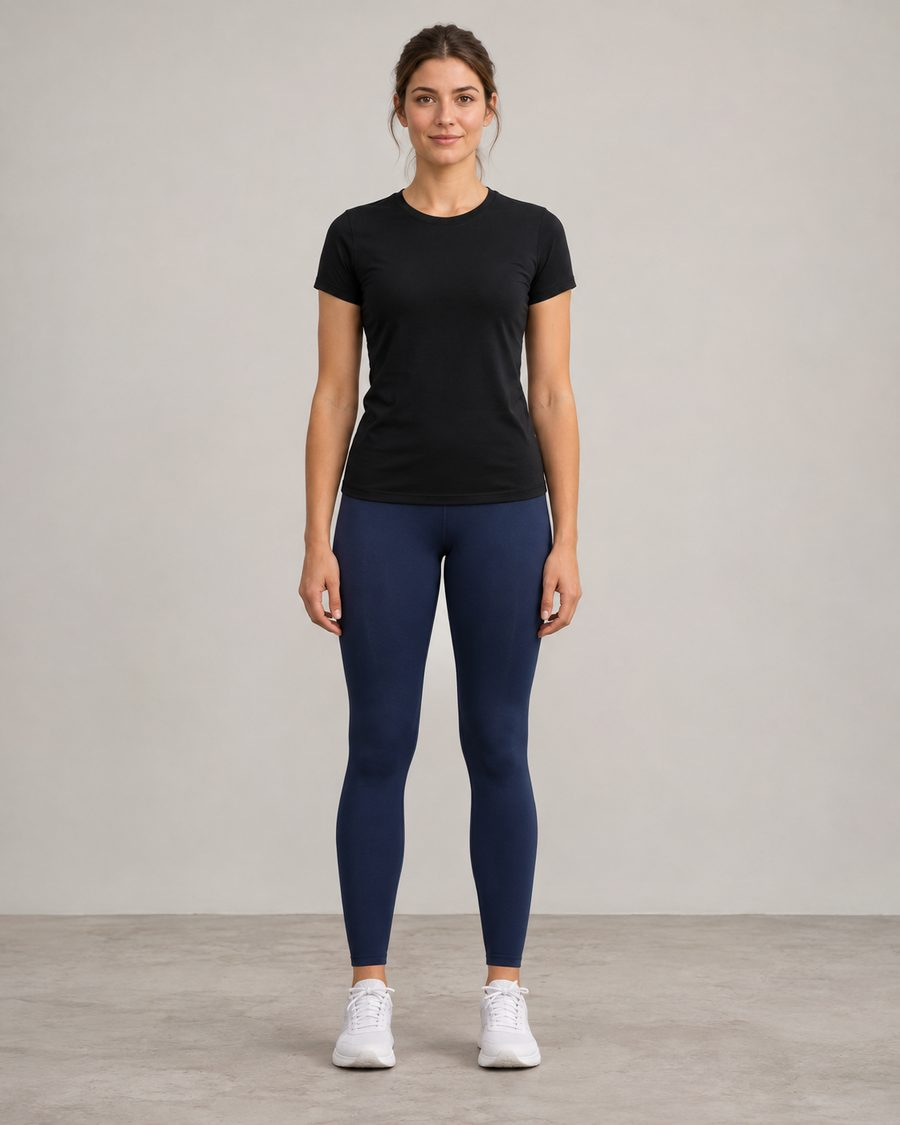
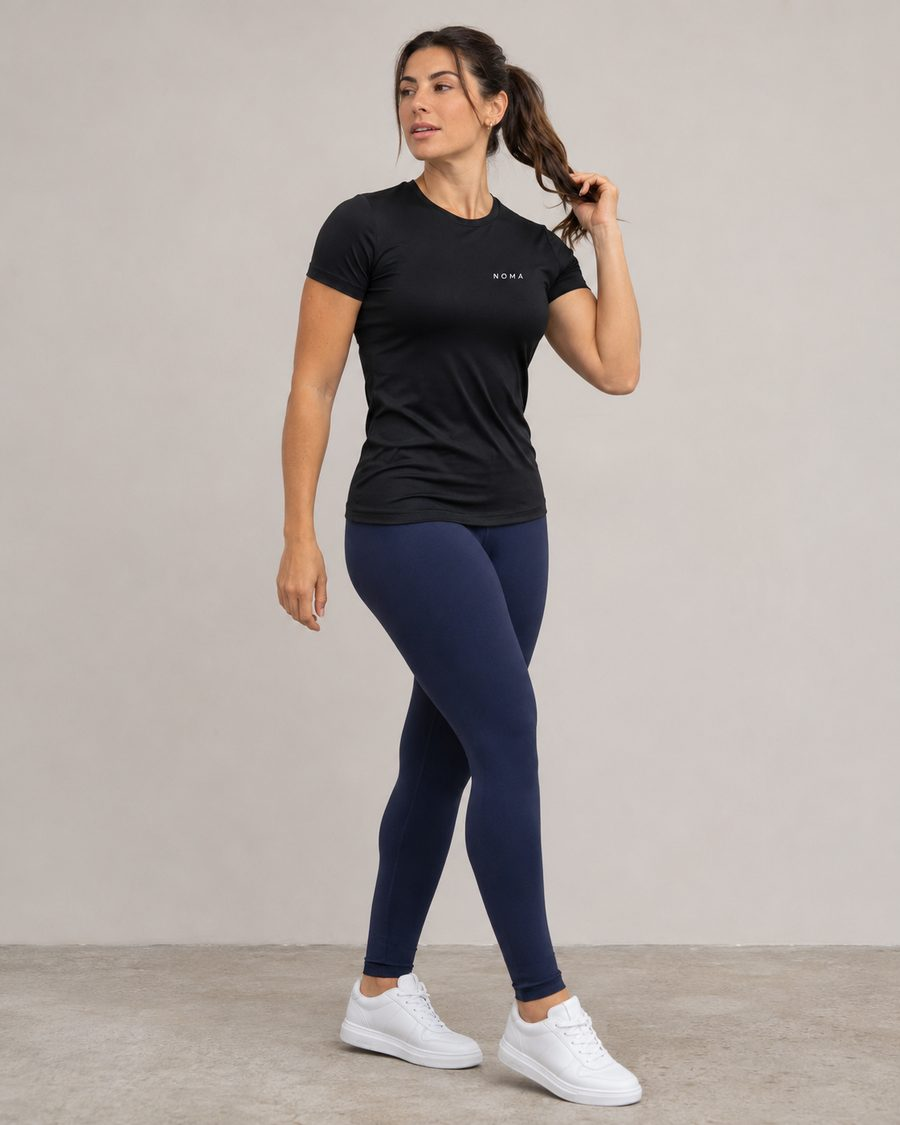
Ajustes de layout, fotos novas e correções de bugs
- Banner de borda a borda e conteúdo mais perto da borda, como no Figma
- Banners próprios para celular (verticais) e contraste do texto
- Menu do celular reescrito fora do topo (antes ficava preso no cabeçalho)
- Fotos refeitas com poses variadas, segunda foto por produto e a marca
  NOMA nas peças
- Galeria e filtros sem estouro lateral no celular; telas do painel
  ajustadas para telas pequenas
- API do carrinho tolera entradas inválidas (antes dava erro 500)
- Busca escapa o termo destacado; gaveta fora do alcance do Tab quando fechada

diff --git a/static/css/noma.css b/static/css/noma.css
@@ -19,7 +19,9 @@
   --raio-g: 14px;
   --sombra: 0 1px 2px rgb(0 0 0 / .04), 0 8px 24px rgb(0 0 0 / .06);
   --sombra-g: 0 24px 60px rgb(0 0 0 / .18);
-  --largura: 1120px;
+  /* Largura do conteúdo como no Figma: perto da borda, com respiro proporcional à tela */
+  --respiro: clamp(16px, 7vw, 150px);
+  --largura: min(1720px, calc(100vw - 2 * var(--respiro)));
   --fonte: "Manrope", system-ui, -apple-system, "Segoe UI", sans-serif;
   --mola: cubic-bezier(.34, 1.56, .64, 1);
   --suavizar: cubic-bezier(.22, 1, .36, 1);
@@ -60,7 +62,7 @@ p { margin: 0; }
 .topo { position: sticky; top: 0; z-index: 40; background: rgb(244 244 246 / .86); backdrop-filter: saturate(180%) blur(14px);
   transition: box-shadow .3s, background .3s; }
 .topo.rolou { box-shadow: 0 1px 0 var(--linha), 0 6px 20px rgb(0 0 0 / .04); background: rgb(255 255 255 / .9); }
-.topo__in { max-width: 1440px; margin: 0 auto; height: var(--topo-h); padding: 0 48px; display: flex; align-items: center; gap: 24px; }
+.topo__in { height: var(--topo-h); padding: 0 clamp(16px, 3vw, 48px); display: flex; align-items: center; gap: 24px; }
 .logo { font-weight: 500; letter-spacing: .32em; font-size: 17px; margin-right: auto; }
 .nav { display: flex; gap: 28px; font-size: 14px; color: #2a2a2e; margin-right: auto; }
 .nav a { position: relative; padding: 6px 0; transition: color .2s; }
@@ -117,13 +119,13 @@ p { margin: 0; }
 .link--suave { color: var(--suave); font-size: 13px; }
 
 /* ------------------------------------------------ hero */
-.hero { position: relative; height: clamp(360px, 46vw, 640px); max-width: 1440px; margin: 0 auto; overflow: hidden; background: #1d3a52; }
+.hero { position: relative; width: 100%; height: clamp(380px, 44vw, 820px); overflow: hidden; background: #1d3a52; }
 .hero__slide { position: absolute; inset: 0; background: var(--fundo); opacity: 0; visibility: hidden; transition: opacity 1s ease, visibility 1s; }
 .hero__slide.ativo { opacity: 1; visibility: visible; }
 .hero__slide img { width: 100%; height: 100%; object-fit: cover; object-position: 75% center; transform: scale(1.08); }
 .hero__slide.ativo img { animation: kenburns 9s ease-out forwards; }
 @keyframes kenburns { from { transform: scale(1.08); } to { transform: scale(1); } }
-.hero__texto { position: absolute; left: max(48px, calc((100% - var(--largura)) / 2 - 60px)); top: 50%; transform: translateY(-50%); color: #fff; max-width: 560px; }
+.hero__texto { position: absolute; left: calc((100% - var(--largura)) / 2); top: 50%; transform: translateY(-50%); color: #fff; max-width: min(760px, 52%); }
 .hero__texto > * { opacity: 0; transform: translateY(24px); }
 .hero__slide.ativo .hero__texto > * { animation: subir .9s var(--suavizar) forwards; }
 .hero__slide.ativo .hero__texto > :nth-child(2) { animation-delay: .12s; }
@@ -141,13 +143,13 @@ p { margin: 0; }
 @keyframes progresso { from { transform: scaleX(0); } to { transform: scaleX(1); } }
 
 /* ------------------------------------------------ seções e grade */
-.secao { max-width: var(--largura); margin: 0 auto; padding: 64px 24px 8px; }
+.secao { width: var(--largura); margin: 0 auto; padding: 64px 0 8px; }
 .secao__titulo { font-size: clamp(24px, 2.6vw, 34px); font-weight: 800; text-transform: uppercase; letter-spacing: -.015em; text-align: center; margin-bottom: 28px; }
 .secao__titulo--esq { text-align: left; margin-top: 48px; font-size: 22px; }
 .secao__cabeca { display: flex; justify-content: center; align-items: baseline; position: relative; }
 .secao__cabeca .link { position: absolute; right: 0; top: 10px; }
 .secao__acao { display: flex; justify-content: center; margin-top: 36px; }
-.grade { display: grid; grid-template-columns: repeat(4, 1fr); gap: 40px 16px; }
+.grade { display: grid; grid-template-columns: repeat(4, 1fr); gap: 44px clamp(12px, 1.2vw, 24px); }
 .grade--3 { grid-template-columns: repeat(3, 1fr); gap: 16px; }
 .grade--3 .card__foto { aspect-ratio: 1.22; }
 .grade--queridinhos { grid-template-columns: 1.15fr 1fr 1fr 1fr; align-items: start; }
@@ -215,7 +217,8 @@ p { margin: 0; }
 .sem-js .revelar { opacity: 1; transform: none; }
 
 /* ------------------------------------------------ listagem */
-.pagina { max-width: var(--largura); margin: 0 auto; padding: 36px 24px 72px; }
+.pagina { width: var(--largura); margin: 0 auto; padding: 36px 0 72px; }
+.estreita { width: min(760px, var(--largura)); }
 .lista-cabeca { display: flex; justify-content: space-between; align-items: flex-start; gap: 24px; margin-bottom: 36px; }
 .lista-cabeca__titulo { font-size: clamp(36px, 4vw, 52px); font-weight: 700; letter-spacing: -.03em; }
 .lista-cabeca .suave { margin-top: 6px; }
@@ -271,7 +274,6 @@ p { margin: 0; }
 .trilha .i { width: 13px; height: 13px; }
 .trilha a:hover { color: var(--texto); }
 .trilha span { color: var(--texto); }
-.produto { max-width: 1240px; }
 .produto__topo { display: grid; grid-template-columns: minmax(0, 1.78fr) minmax(320px, 1fr); gap: 20px; align-items: start; }
 .galeria { display: grid; grid-template-columns: 1fr 1fr; gap: 8px; }
 .galeria--1 { grid-template-columns: 1fr; }
@@ -368,7 +370,7 @@ p { margin: 0; }
 .estrelas .i.meia { fill: url(#meia); fill: currentColor; fill-opacity: .45; }
 
 /* avaliações */
-.avaliacoes { max-width: var(--largura); margin: 72px auto 0; }
+.avaliacoes { margin: 72px auto 0; }
 .avaliacoes__titulo { font-size: 24px; font-weight: 600; letter-spacing: -.02em; margin-bottom: 16px; }
 .avaliacoes__caixa { background: var(--superficie); border-radius: var(--raio-g); padding: 28px; display: grid; grid-template-columns: 260px 1fr; gap: 40px; box-shadow: var(--sombra); }
 .avaliacoes__nota { display: flex; align-items: center; gap: 16px; }
@@ -549,7 +551,7 @@ p { margin: 0; }
 
 /* ------------------------------------------------ institucional */
 .institucional { padding-top: 48px; }
-.estreita { max-width: 760px; }
+
 .sobre { display: grid; grid-template-columns: 1.1fr 1fr; gap: 48px; align-items: center; }
 .sobre h1 { font-size: clamp(34px, 4vw, 52px); font-weight: 700; letter-spacing: -.03em; margin-bottom: 20px; }
 .sobre h1 span { color: var(--suave); font-weight: 500; }
@@ -575,7 +577,7 @@ p { margin: 0; }
 
 /* ------------------------------------------------ rodapé */
 .rodape { background: #000; color: #e9e9ea; margin-top: 40px; }
-.rodape__in { max-width: 1440px; margin: 0 auto; padding: 72px 64px 40px; display: grid; grid-template-columns: 220px 1fr; gap: 28px 40px; }
+.rodape__in { padding: 72px clamp(16px, 4.5vw, 64px) 40px; display: grid; grid-template-columns: 220px 1fr; gap: 28px 40px; }
 .rodape__logo { font-size: 44px; letter-spacing: .14em; font-weight: 500; align-self: center; }
 .rodape__colunas { display: grid; grid-template-columns: repeat(4, 1fr); gap: 24px; }
 .rodape h4 { font-size: 11px; letter-spacing: .1em; text-transform: uppercase; color: #fff; margin-bottom: 12px; font-weight: 700; }
@@ -603,15 +605,10 @@ p { margin: 0; }
   .topo__in { padding: 0 16px; gap: 8px; }
   .topo .topo__menu { display: inline-grid; }
   .logo { margin: 0 auto 0 4px; }
-  .nav { position: fixed; inset: 0 30% 0 0; min-width: 260px; background: var(--superficie); z-index: 65; flex-direction: column; gap: 0; padding: 70px 24px 24px;
-    font-size: 20px; font-weight: 600; transform: translateX(-105%); transition: transform .45s var(--suavizar); box-shadow: var(--sombra-g); margin: 0; }
-  .nav.aberto { transform: none; }
-  .nav a { padding: 14px 0; border-bottom: 1px solid var(--linha); }
-  .nav a::after { display: none; }
-  .topo .nav__fechar { display: inline-grid; position: absolute; top: 14px; right: 14px; }
+  .topo .nav { display: none; }
   .carrinho-btn__txt { display: none; }
   .produto__topo { grid-template-columns: 1fr; }
-  .galeria { display: flex; overflow-x: auto; scroll-snap-type: x mandatory; gap: 8px; margin: 0 -24px; padding: 0 24px; scrollbar-width: none; }
+  .galeria { display: flex; overflow-x: auto; scroll-snap-type: x mandatory; gap: 8px; margin: 0 calc(-1 * var(--respiro)); padding: 0 var(--respiro); scroll-padding: 0 var(--respiro); scrollbar-width: none; }
   .galeria::-webkit-scrollbar { display: none; }
   .galeria .galeria__foto { flex: 0 0 82%; aspect-ratio: 4 / 5 !important; scroll-snap-align: center; grid-column: auto !important; }
   .galeria--1 .galeria__foto { flex-basis: 100%; }
@@ -628,24 +625,26 @@ p { margin: 0; }
 @media (max-width: 640px) {
   body { font-size: 14px; }
   .faixa { font-size: 10.5px; gap: 8px; }
-  .secao { padding: 44px 16px 0; }
-  .pagina { padding: 24px 16px 56px; }
+  .secao { padding: 44px 0 0; }
+  .pagina { padding: 24px 0 56px; }
   .grade, .grade--queridinhos { grid-template-columns: 1fr 1fr; gap: 28px 10px; }
   .grade--3 { grid-template-columns: 1fr 1fr; }
   .grade--3 .card:first-child { grid-column: 1 / -1; }
   .manifesto { grid-column: 1 / -1; }
   .trilho__faixa { grid-auto-columns: 44%; }
   .trilho__seta { display: none; }
-  .hero { height: 66vh; max-height: 520px; }
-  .hero__slide img { object-position: 72% center; }
-  .hero__slide::after { content: ""; position: absolute; inset: 40% 0 0; background: linear-gradient(transparent, rgb(0 0 0 / .55)); pointer-events: none; }
-  .hero__texto { z-index: 1; }
-  .hero__texto { left: 20px; right: 20px; top: auto; bottom: 64px; transform: none; text-shadow: 0 2px 20px rgb(0 0 0 / .35); }
+  /* No celular o banner usa uma foto vertical própria, com espaço limpo embaixo para o texto */
+  .hero { height: auto; aspect-ratio: 4 / 5; max-height: 86vh; }
+  .hero__slide img { object-position: center top; }
+  .hero__slide::after { content: ""; position: absolute; inset: 40% 0 0; background: linear-gradient(transparent, rgb(0 0 0 / .42)); pointer-events: none; }
+  .hero__texto { z-index: 1; left: 20px; right: 20px; top: auto; bottom: 44px; transform: none; text-shadow: 0 1px 14px rgb(0 0 0 / .25); }
+  .hero__pontos { right: 20px; bottom: 18px; }
   .hero__chapeu { margin-bottom: 12px; }
   .filtros { align-items: stretch; }
-  .filtros__grupo { flex-wrap: nowrap; overflow-x: auto; padding-bottom: 4px; margin: 0 -16px; padding-inline: 16px; scrollbar-width: none; width: calc(100% + 32px); }
+  .filtros { position: relative; }
+  .filtros__grupo { flex-wrap: nowrap; overflow-x: auto; padding-bottom: 4px; margin: 0 calc(-1 * var(--respiro)); padding-inline: var(--respiro); scrollbar-width: none; width: calc(100% + 2 * var(--respiro)); }
   .filtro { position: static; }
-  .filtro__menu { left: 16px; right: 16px; top: auto; }
+  .filtro__menu { left: 0; right: 0; top: 42px; max-height: 60vh; overflow-y: auto; }
   .ordenar { width: 100%; justify-content: space-between; }
   .modal { padding: 0; align-items: end; }
   .modal__caixa { border-radius: 18px 18px 0 0; padding: 24px 18px; transform: translateY(100%); max-height: 94vh; overflow-y: auto; }
@@ -658,3 +657,17 @@ p { margin: 0; }
   *, *::before, *::after { animation-duration: .01ms !important; animation-iteration-count: 1 !important; transition-duration: .01ms !important; scroll-behavior: auto !important; }
   .revelar { opacity: 1; transform: none; }
 }
+
+/* ------------------------------------------------ menu do celular (fora do topo para não ficar preso nele) */
+.menu-movel { position: fixed; top: 0; bottom: 0; left: 0; width: min(320px, 84vw); background: var(--superficie); z-index: 66;
+  display: flex; flex-direction: column; padding: 18px 22px 24px; transform: translateX(-105%); visibility: hidden;
+  transition: transform .45s var(--suavizar), visibility .45s; box-shadow: var(--sombra-g); overflow-y: auto; }
+.menu-movel.aberto { transform: none; visibility: visible; }
+.menu-movel__topo { display: flex; justify-content: space-between; align-items: center; margin-bottom: 18px; }
+.menu-movel__topo .logo { margin: 0; }
+.menu-movel a.menu-movel__link { display: flex; justify-content: space-between; align-items: center; padding: 15px 0; border-bottom: 1px solid var(--linha); font-size: 19px; font-weight: 600;
+  opacity: 0; transform: translateX(-14px); transition: opacity .35s, transform .4s var(--suavizar); }
+.menu-movel.aberto a.menu-movel__link { opacity: 1; transform: none; transition-delay: calc(var(--i) * 45ms + 120ms); }
+.menu-movel a.menu-movel__link .i { color: var(--apagado); }
+.menu-movel a.ativo { color: var(--azul); }
+.menu-movel__pe { margin-top: auto; padding-top: 24px; display: grid; gap: 10px; }

diff --git a/static/js/noma.js b/static/js/noma.js
@@ -80,7 +80,12 @@
 
   /* ------------------------------------------------ menu do celular */
   const nav = $("[data-menu]");
-  $("[data-abrir-menu]")?.addEventListener("click", () => { nav.classList.add("aberto"); mostrarVeu(() => nav.classList.remove("aberto")); });
+  $("[data-abrir-menu]")?.addEventListener("click", () => {
+    nav.classList.add("aberto"); nav.setAttribute("aria-hidden", "false");
+    mostrarVeu(() => { nav.classList.remove("aberto"); nav.setAttribute("aria-hidden", "true"); });
+    setTimeout(() => $("[data-fechar-menu]", nav)?.focus(), 200);
+  });
+  addEventListener("resize", () => { if (innerWidth > 860 && nav?.classList.contains("aberto")) esconderVeu(); });
   $("[data-fechar-menu]")?.addEventListener("click", () => esconderVeu());
 
   /* ------------------------------------------------ véu compartilhado (gaveta e menu) */
@@ -199,9 +204,11 @@
   let carrinho = { itens: [], total: 0, qtd: 0 };
   let totalMostrado = 0;
 
+  if (gaveta) gaveta.inert = true;  // fechada: fora do alcance do Tab
   function abrirCarrinho() {
-    gaveta.classList.add("aberta"); gaveta.setAttribute("aria-hidden", "false");
-    mostrarVeu(() => { gaveta.classList.remove("aberta"); gaveta.setAttribute("aria-hidden", "true"); });
+    gaveta.classList.add("aberta"); gaveta.setAttribute("aria-hidden", "false"); gaveta.inert = false;
+    mostrarVeu(() => { gaveta.classList.remove("aberta"); gaveta.setAttribute("aria-hidden", "true"); gaveta.inert = true; });
+    setTimeout(() => $("[data-fechar-carrinho]", gaveta)?.focus({ preventScroll: true }), 300);
     $$(".item", gaveta).forEach((el) => { el.classList.remove("entrar"); void el.offsetWidth; el.classList.add("entrar"); });
   }
   function fecharCarrinho() { esconderVeu(); }
@@ -500,6 +507,7 @@
   const dicaInicial = resultados?.innerHTML;
   let buscaTimer, foco = -1, ultimaBusca = "";
   function abrirBusca() {
+    if (nav?.classList.contains("aberto")) esconderVeu();
     busca.hidden = false; document.body.classList.add("travado");
     requestAnimationFrame(() => busca.classList.add("ativo"));
     setTimeout(() => entrada.focus(), 120);
@@ -514,7 +522,7 @@
   document.addEventListener("keydown", (e) => {
     if (e.key === "/" && !/input|textarea|select/i.test(document.activeElement.tagName)) { e.preventDefault(); abrirBusca(); }
   });
-  const marcar = (txt, q) => esc(txt).replace(new RegExp(`(${q.replace(/[.*+?^${}()|[\]\\]/g, "\\$&")})`, "ig"), "<mark>$1</mark>");
+  const marcar = (txt, q) => esc(txt).replace(new RegExp(`(${esc(q).replace(/[.*+?^${}()|[\]\\]/g, "\\$&")})`, "ig"), "<mark>$1</mark>");
   entrada?.addEventListener("input", () => {
     clearTimeout(buscaTimer);
     const q = entrada.value.trim();

diff --git a/templates/loja/base.html b/templates/loja/base.html
@@ -27,9 +27,8 @@
     <div class="topo__in">
       <button class="topo__menu botao-icone" type="button" aria-label="Abrir menu" data-abrir-menu>{{ icone('menu') }}</button>
       <a class="logo" href="{{ url_for('loja.inicio') }}" aria-label="{{ loja.loja_nome }} — página inicial">NOMA</a>
-      <nav class="nav" aria-label="Principal" data-menu>
-        <button class="nav__fechar botao-icone" type="button" aria-label="Fechar menu" data-fechar-menu>{{ icone('fechar') }}</button>
-        {% set atual = request.path %}
+      {% set atual = request.path %}
+      <nav class="nav" aria-label="Principal">
         <a href="{{ url_for('loja.listagem', secao='roupas') }}" class="{{ 'ativo' if atual == '/roupas' }}">Roupas</a>
         <a href="{{ url_for('loja.listagem', secao='acessorios') }}" class="{{ 'ativo' if atual == '/acessorios' }}">Acessórios</a>
         <a href="{{ url_for('loja.listagem', secao='novidades') }}" class="{{ 'ativo' if atual == '/novidades' }}">Novidades</a>
@@ -46,6 +45,23 @@
       </div>
     </div>
   </header>
+
+  <nav class="menu-movel" aria-label="Menu" data-menu aria-hidden="true">
+    <div class="menu-movel__topo">
+      <a class="logo" href="{{ url_for('loja.inicio') }}">NOMA</a>
+      <button class="botao-icone botao-icone--suave" type="button" aria-label="Fechar menu" data-fechar-menu>{{ icone('fechar') }}</button>
+    </div>
+    {% for rotulo, url in [('Início', url_for('loja.inicio')), ('Roupas', url_for('loja.listagem', secao='roupas')),
+        ('Acessórios', url_for('loja.listagem', secao='acessorios')), ('Novidades', url_for('loja.listagem', secao='novidades')),
+        ('Ofertas da Black', url_for('loja.listagem', secao='ofertas')), ('Sobre a NOMA', url_for('loja.sobre')),
+        ('Atendimento', url_for('loja.atendimento'))] %}
+    <a class="menu-movel__link {{ 'ativo' if atual == url }}" style="--i: {{ loop.index0 }}" href="{{ url }}">{{ rotulo }} {{ icone('direita') }}</a>
+    {% endfor %}
+    <div class="menu-movel__pe">
+      <button class="botao botao--contorno" type="button" data-abrir-busca>{{ icone('busca') }} Buscar</button>
+      <a class="botao" href="{{ url_for('admin.login') }}">{{ icone('usuario') }} Área do administrador</a>
+    </div>
+  </nav>
 
   <main id="conteudo">{% block conteudo %}{% endblock %}</main>
 

diff --git a/templates/loja/inicio.html b/templates/loja/inicio.html
@@ -6,7 +6,7 @@
 <section class="hero" data-carrossel aria-roledescription="carrossel" aria-label="Destaques">
   <div class="hero__slide ativo" style="--fundo: #1d3a52">
     <picture>
-      <source media="(max-width: 700px)" srcset="{{ url_for('static', filename='img/banners/banner-black-friday-m.jpg') }}">
+      <source media="(max-width: 640px)" srcset="{{ url_for('static', filename='img/banners/banner-black-friday-m.jpg') }}">
       <img src="{{ url_for('static', filename='img/banners/banner-black-friday.jpg') }}" alt="Homem de camiseta branca em fundo azul" fetchpriority="high">
     </picture>
     <div class="hero__texto">
@@ -18,12 +18,12 @@
   </div>
   <div class="hero__slide" style="--fundo: #b07a4f">
     <picture>
-      <source media="(max-width: 700px)" srcset="{{ url_for('static', filename='img/banners/banner-colecao-m.jpg') }}">
+      <source media="(max-width: 640px)" srcset="{{ url_for('static', filename='img/banners/banner-colecao-m.jpg') }}">
       <img src="{{ url_for('static', filename='img/banners/banner-colecao.jpg') }}" alt="Mulher de camisa de linho bege em fundo terroso" loading="lazy">
     </picture>
     <div class="hero__texto">
       <p class="hero__chapeu">Nova coleção</p>
-      <h1 class="hero__titulo">Linho &amp; terra</h1>
+      <h2 class="hero__titulo">Linho &amp; terra</h2>
       <p class="hero__sub">peças leves para os dias quentes</p>
       <a class="botao botao--branco" href="{{ url_for('loja.listagem', secao='novidades') }}">Conhecer {{ icone('seta') }}</a>
     </div>

diff --git a/static/css/admin.css b/static/css/admin.css
@@ -368,3 +368,24 @@ tr:hover .produto-celula img { transform: scale(1.06); }
 @media (prefers-reduced-motion: reduce) {
   *, *::before, *::after { animation-duration: .01ms !important; animation-iteration-count: 1 !important; transition-duration: .01ms !important; }
 }
+
+/* cartões com tabela não podem alargar a página no celular */
+.duas-colunas > *, .form-produto__principal > *, .form-produto__lado > * { min-width: 0; }
+.duas-colunas > .cartao { overflow-x: auto; }
+@media (max-width: 860px) {
+  .cortar { max-width: 120px; }
+  .topo-lista { flex-direction: column; align-items: stretch; }
+  .busca-adm { max-width: none; }
+  .abas-adm { flex-wrap: nowrap; overflow-x: auto; scrollbar-width: none; }
+  .abas-adm a { flex: none; }
+  .tabela--produtos th:nth-child(2), .tabela--produtos td:nth-child(2) { display: none; }
+  .produto-celula { min-width: 190px; }
+  .modal__acoes { flex-direction: column-reverse; }
+}
+.pedido__corpo { overflow-x: auto; }
+@media (max-width: 860px) {
+  .busca-adm { width: 100%; }
+  .busca-adm select { max-width: 42%; min-width: 0; }
+}
+.pedidos { grid-template-columns: minmax(0, 1fr); }
+.topo-lista > * { min-width: 0; max-width: 100%; }

diff --git a/loja.py b/loja.py
@@ -22,6 +22,13 @@ LISTAGENS = {
 FILTROS = ("genero", "tamanho", "cor", "preco", "material")
 
 
+def _inteiro(valor, padrao=0):
+    try:
+        return int(valor)
+    except (TypeError, ValueError):
+        return padrao
+
+
 def _vistos(ignorar=None):
     try:
         return mongo.por_ids(redis_store.vistos(visitante(), ignorar=ignorar, limite=8))
@@ -149,7 +156,7 @@ def api_adicionar():
     tamanhos = [t for t in p["tamanhos"] if t != "Único"]
     if tamanhos and tamanho not in tamanhos:
         return jsonify(erro="Escolha um tamanho.", campo="tamanho"), 400
-    quantidade = max(1, min(int(dados.get("quantidade") or 1), 20))
+    quantidade = max(1, min(_inteiro(dados.get("quantidade"), 1), 20))
     vid = visitante()
     chave = redis_store.chave_item(p["id"], cor, tamanho or ("Único" if "Único" in p["tamanhos"] else ""))
     atual = redis_store.carrinho(vid).get(chave, 0)
@@ -163,10 +170,10 @@ def api_adicionar():
 def api_quantidade():
     dados = request.get_json(silent=True) or {}
     vid = visitante()
-    chave = dados.get("chave", "")
+    chave = str(dados.get("chave") or "")
     if chave not in redis_store.carrinho(vid):
         return jsonify(erro="Item não está no carrinho."), 404
-    quantidade = max(0, min(int(dados.get("quantidade") or 0), 20))
+    quantidade = max(0, min(_inteiro(dados.get("quantidade"), 0), 20))
     p = mongo.por_id(chave.split("|")[0], completo=False)
     if p and quantidade > p["estoque"]:
         return jsonify(erro=f"Só temos {p['estoque']} unidade(s) em estoque.", **montar_carrinho(vid)), 409

diff --git a/scripts/seed.py b/scripts/seed.py
@@ -148,6 +148,19 @@ OPINIOES = [
 ]
 
 
+PASTA_FOTOS = Path(__file__).resolve().parent.parent / "static" / "img" / "produtos"
+
+
+def fotos(nomes):
+    """Foto principal de cada nome e, se existir, a segunda foto (nome-2.jpg) logo depois."""
+    lista = []
+    for nome in nomes:
+        lista.append(IMG + nome + ".jpg")
+        if (PASTA_FOTOS / f"{nome}-2.jpg").exists():
+            lista.append(IMG + nome + "-2.jpg")
+    return lista
+
+
 def montar(p, posicao):
     agora = datetime.now(timezone.utc)
     rnd = random.Random(p["nome"])
@@ -169,7 +182,7 @@ def montar(p, posicao):
         "preco_promocional": float(p["promo"]) if p["promo"] else None, "preco_final": float(preco_final),
         "estoque": p["estoque"], "vendidos": p["vendidos"], "material": p["material"],
         "composicao": p["composicao"], "cores": p["cores"], "tamanhos": p["tamanhos"],
-        "imagens": [IMG + nome + ".jpg" for nome in p["imagens"]],
+        "imagens": fotos(p["imagens"]),
         "destaques": {k: k in p["destaques"] for k in ("oferta", "queridinho", "novidade")},
         "atributos": p["atributos"], "avaliacoes": avaliacoes, "ativo": True, "posicao": posicao,
         # As novidades ficam com data mais recente para aparecerem primeiro na ordenação.

diff --git a/bancos/supabase.py b/bancos/supabase.py
@@ -26,7 +26,7 @@ def init(database_url, supabase_url="", anon_key="", service_key=""):
     _url, _anon, _service = supabase_url, anon_key, service_key
     if database_url:
         # prepare_threshold=None: compatível com o pooler do Supabase (PgBouncer).
-        _pool = ConnectionPool(database_url, min_size=1, max_size=5, open=False, timeout=15,
+        _pool = ConnectionPool(database_url, min_size=1, max_size=5, open=False, timeout=6,
                                kwargs={"row_factory": dict_row, "prepare_threshold": None,
                                        "connect_timeout": 10})
         _pool.open(wait=False)

diff --git a/app.py b/app.py
@@ -68,7 +68,7 @@ def criar_app():
                 qtd = 0
         return {"csrf_token": csrf_token, "qtd_carrinho": qtd, "url_atual": url_atual,
                 "loja": config_loja() if not request.path.startswith("/static") else {},
-                "ano": datetime.now().year, "versao_estatico": "7"}
+                "ano": datetime.now().year, "versao_estatico": "10"}
 
     @app.after_request
     def cabecalhos(resposta):
